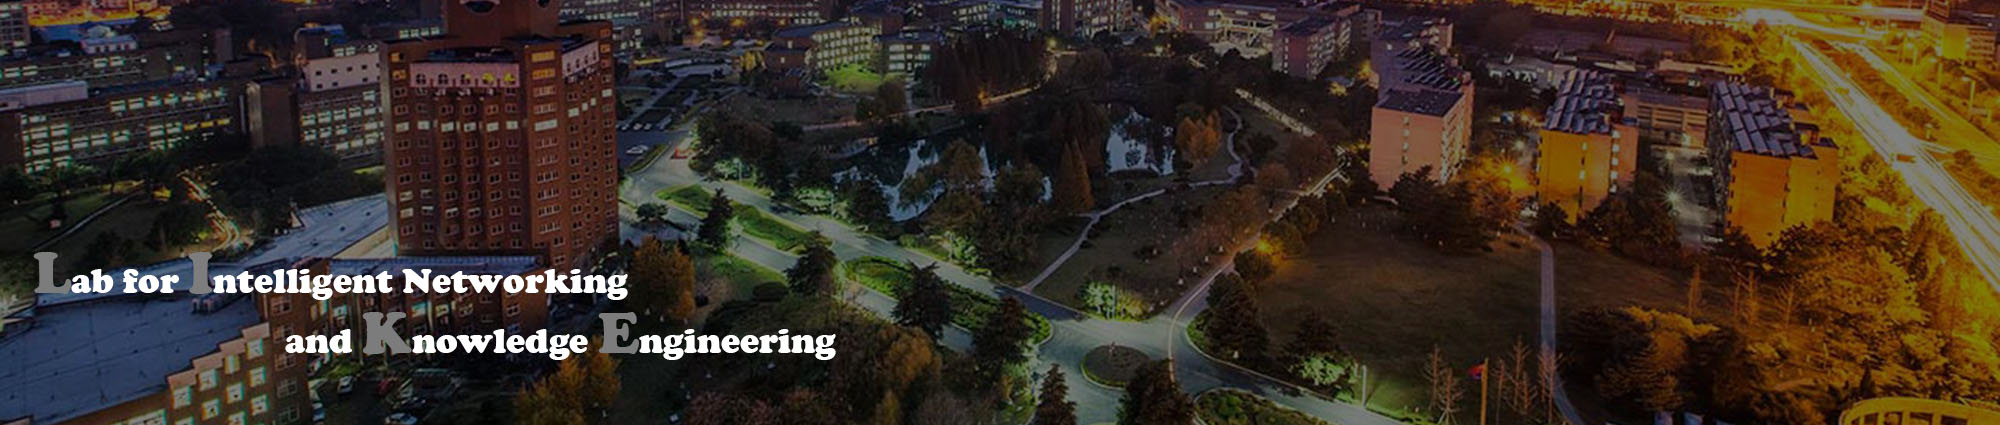
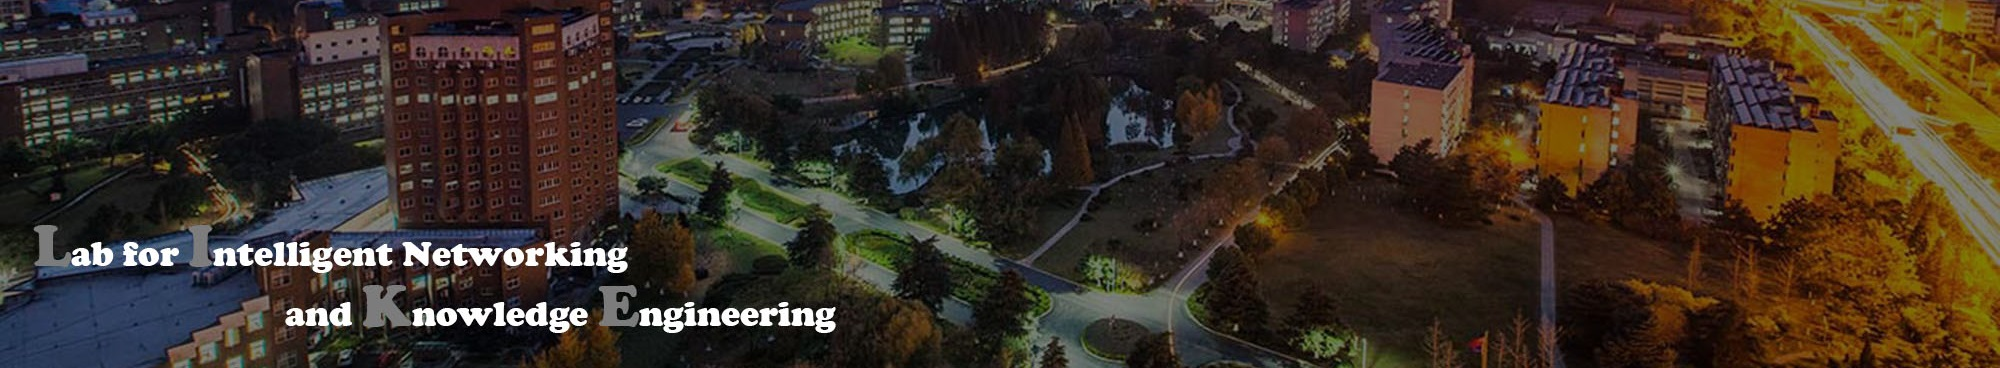
handle index.html bug

diff --git a/app/static/css/my.css b/app/static/css/my.css
@@ -113,7 +113,7 @@ p {
         margin: 0px auto;
         left: 0px;
         overflow: hidden;
-        width: 2000px;
+        width: 100%;
     }
 
     .head_index {
@@ -303,8 +303,8 @@ p {
 @media screen and (min-width: 1601px) {
  
     .headimg {
-        height: 350px;
-        width: 2000px;
+        height: 100%;
+        width: 100%;
     }
 
     .head_index {
@@ -387,8 +387,8 @@ p {
 @media screen and (max-width: 1600px) {
  
     .headimg {
-        height: 300px;
-        width: 1600px;
+        height: 100%;
+        width: 100%;
     }
 
     .head_index {
@@ -469,8 +469,8 @@ p {
 @media screen and (max-width: 1200px) {
  
     .headimg {
-        height: 250px;
-        width: 1200px;
+        height: 100%;
+        width: 100%;
     }
 
     .head_index {
